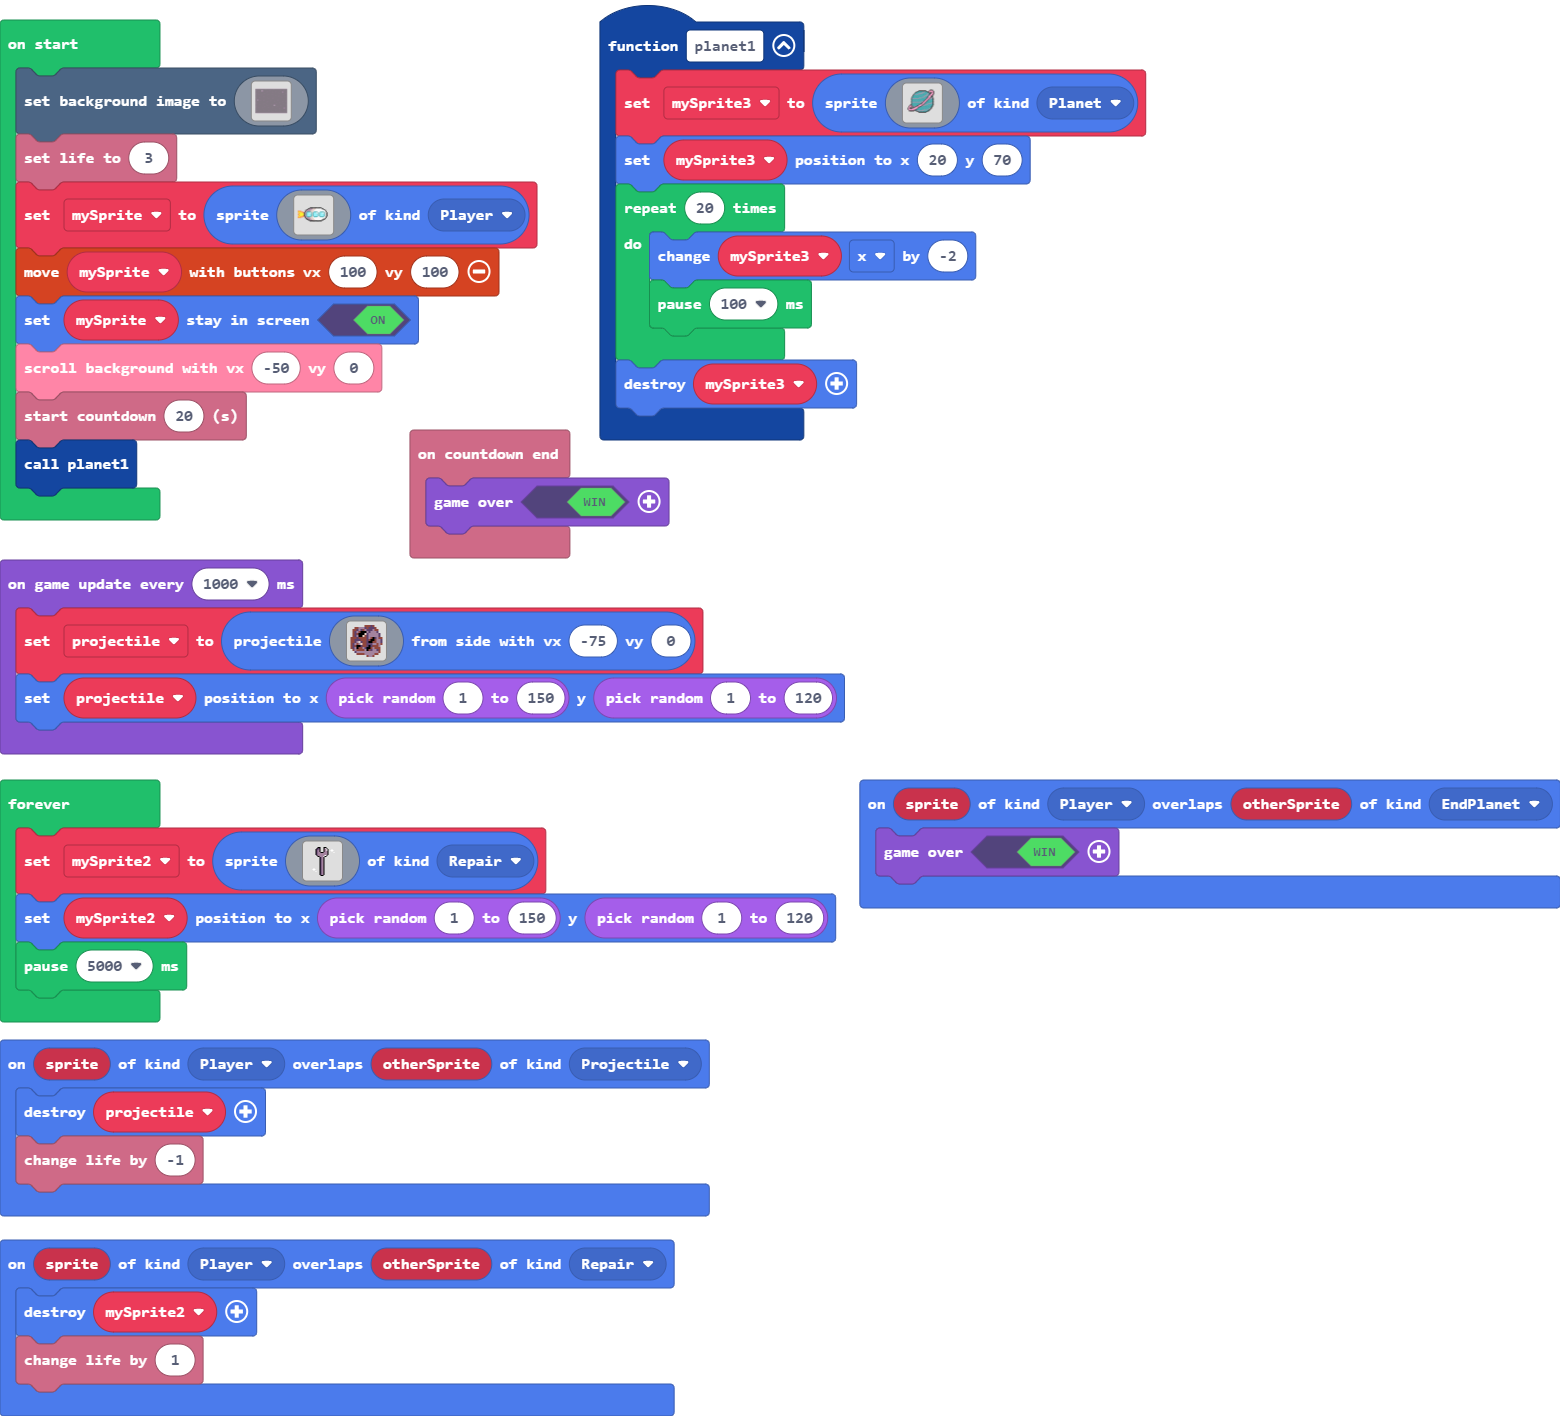
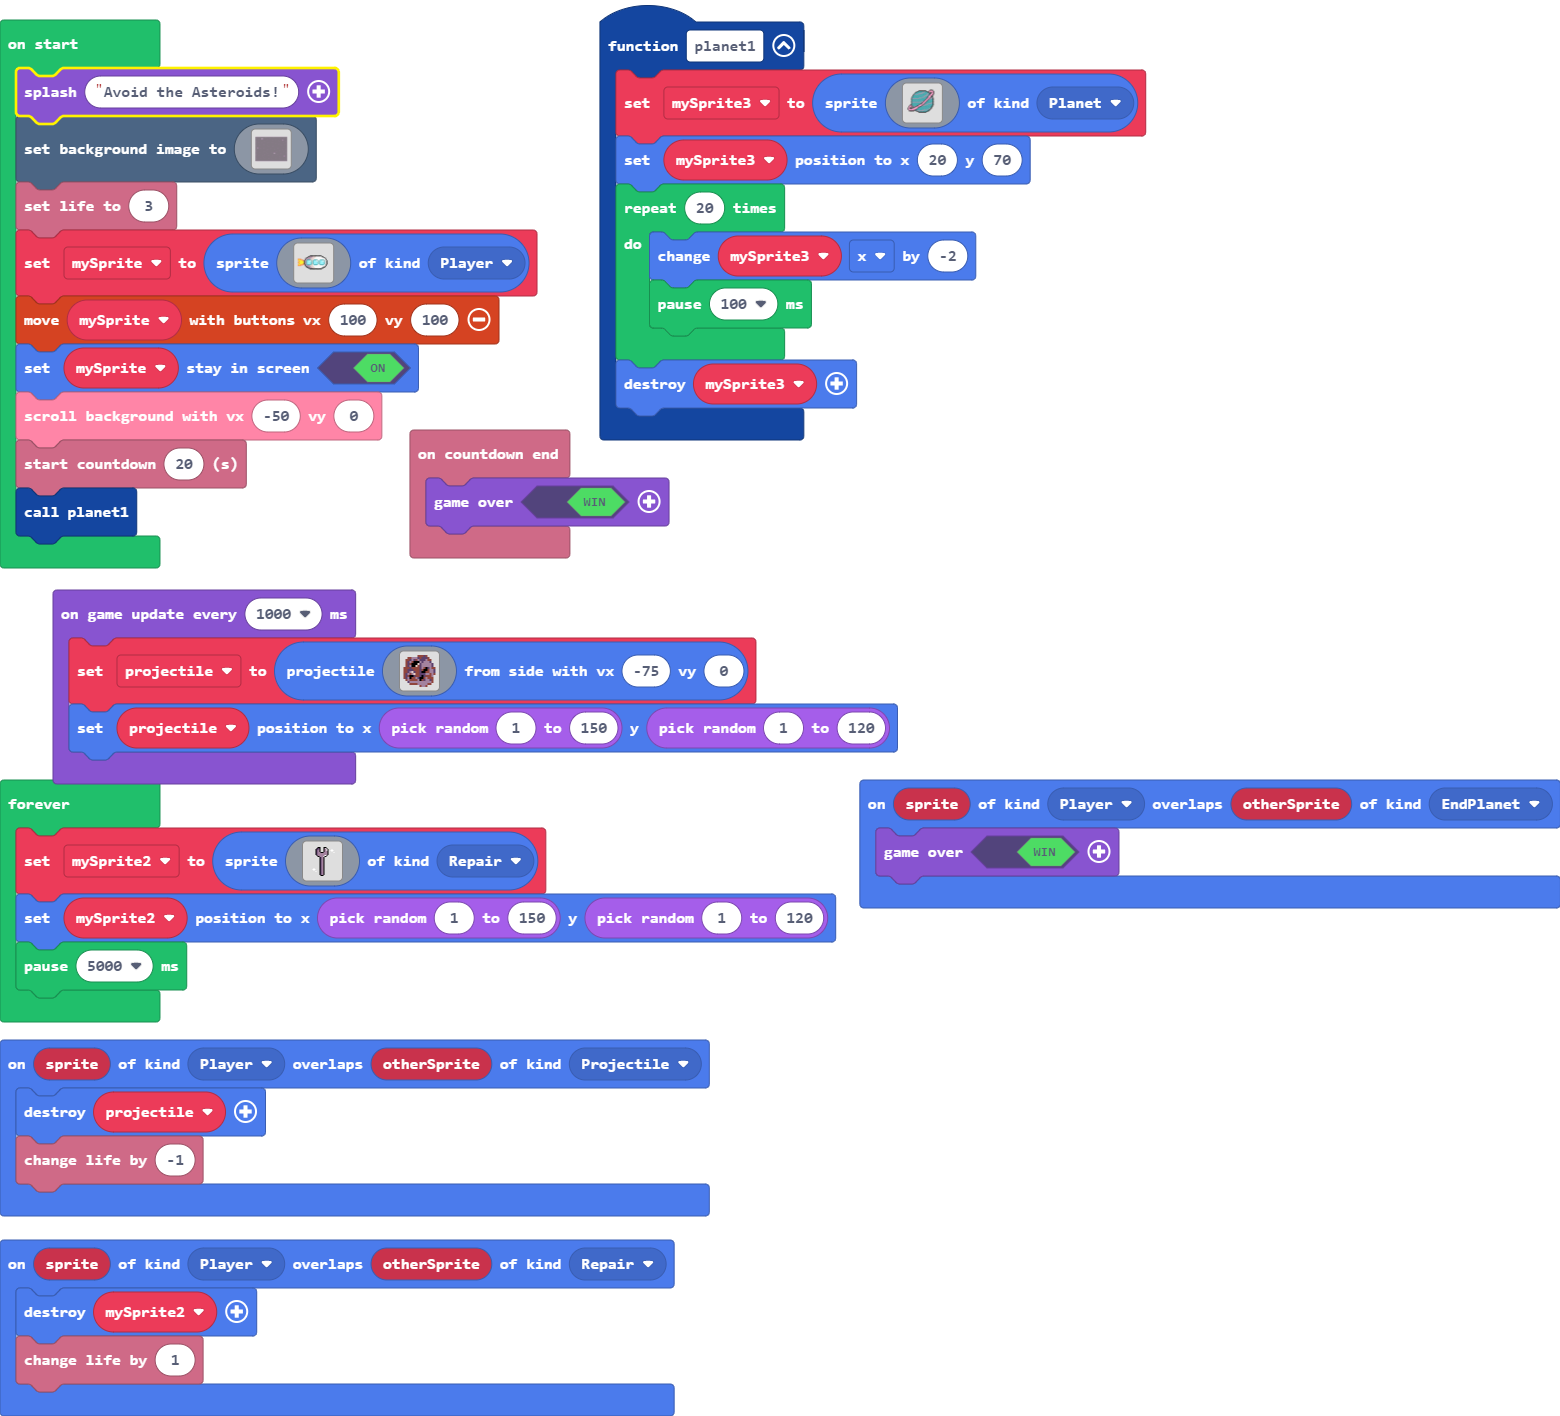
Update main.blocks, main.ts

Changed region(s): [[0.0, 0.0311, 0.5846, 0.5593]]

diff --git a/main.ts b/main.ts
@@ -75,6 +75,7 @@ sprites.onOverlap(SpriteKind.Player, SpriteKind.EndPlanet, function (sprite, oth
 let mySprite2: Sprite = null
 let projectile: Sprite = null
 let mySprite3: Sprite = null
+game.splash("Avoid the Asteroids!")
 scene.setBackgroundImage(img`
     cccccccccccccccccccccccccccccccccccccccccccccccccccccccccccccccccccccccccccccccccccccccccccccccccccccccccccccccccccccccccccccccccccccccccccccccccccccccccccccccc
     cccccccccccccccccccccccccccccccccccccccccccccccccccccccccccccccccccccccccccccccccccccccccccccccccccccccccccccccccccccccccccccccccccccccccccccccccccccccccccccccc
